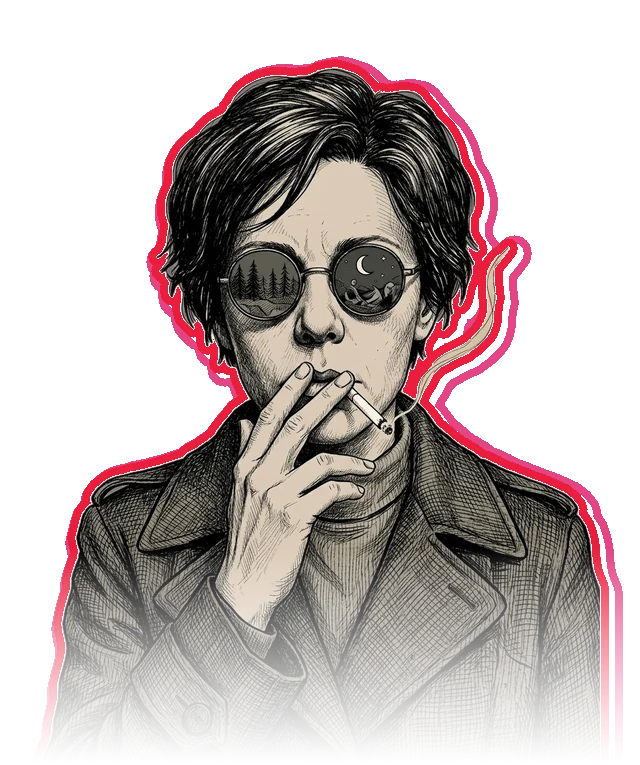
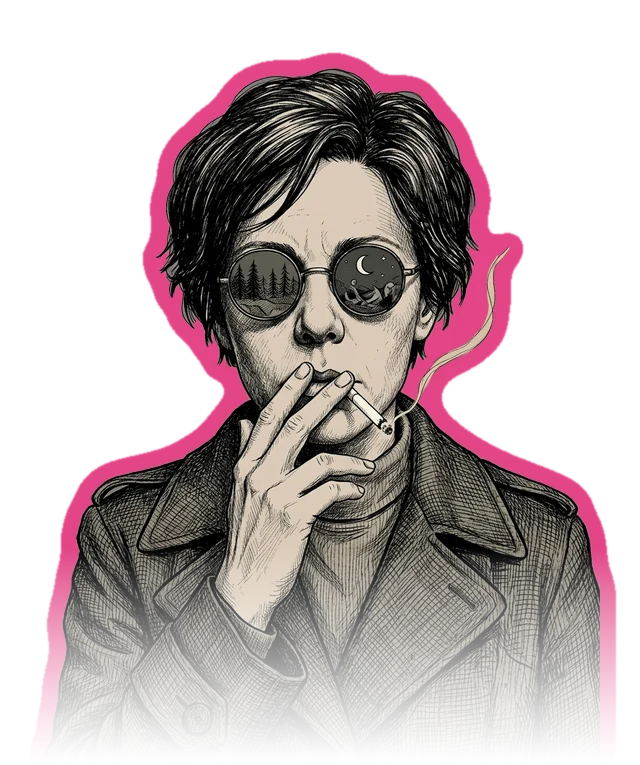
Ensaladas: poetas con borde rosa liso tipo sticker en vez del contorno que seguía el humo
Claude-Session: https://claude.ai/code/session_014MYiZw9DCFwXijDfbvyeKp

Changed region(s): [[0.0625, 0.0601, 1.0, 0.9621]]

diff --git a/assets/css/main.css b/assets/css/main.css
@@ -500,7 +500,7 @@ a { color: inherit; }
 .es__ing:nth-child(2) { --x: 50%; --y: -10%; }
 .es__ing:nth-child(3) { --x: 70%; --y: -4%; }
 .es__ing:nth-child(4) { --x: 85%; --y: 5%; }
-.es__ing:nth-child(5) { --x: 96%; --y: 56%; }
+.es__ing:nth-child(5) { --x: 84%; --y: 38%; }
 .es__ing:nth-child(6) { --x: 78%; --y: 57%; }
 .es__ing:nth-child(7) { --x: 70%; --y: 83%; }
 .es__ing:nth-child(8) { --x: 63%; --y: 114%; }
